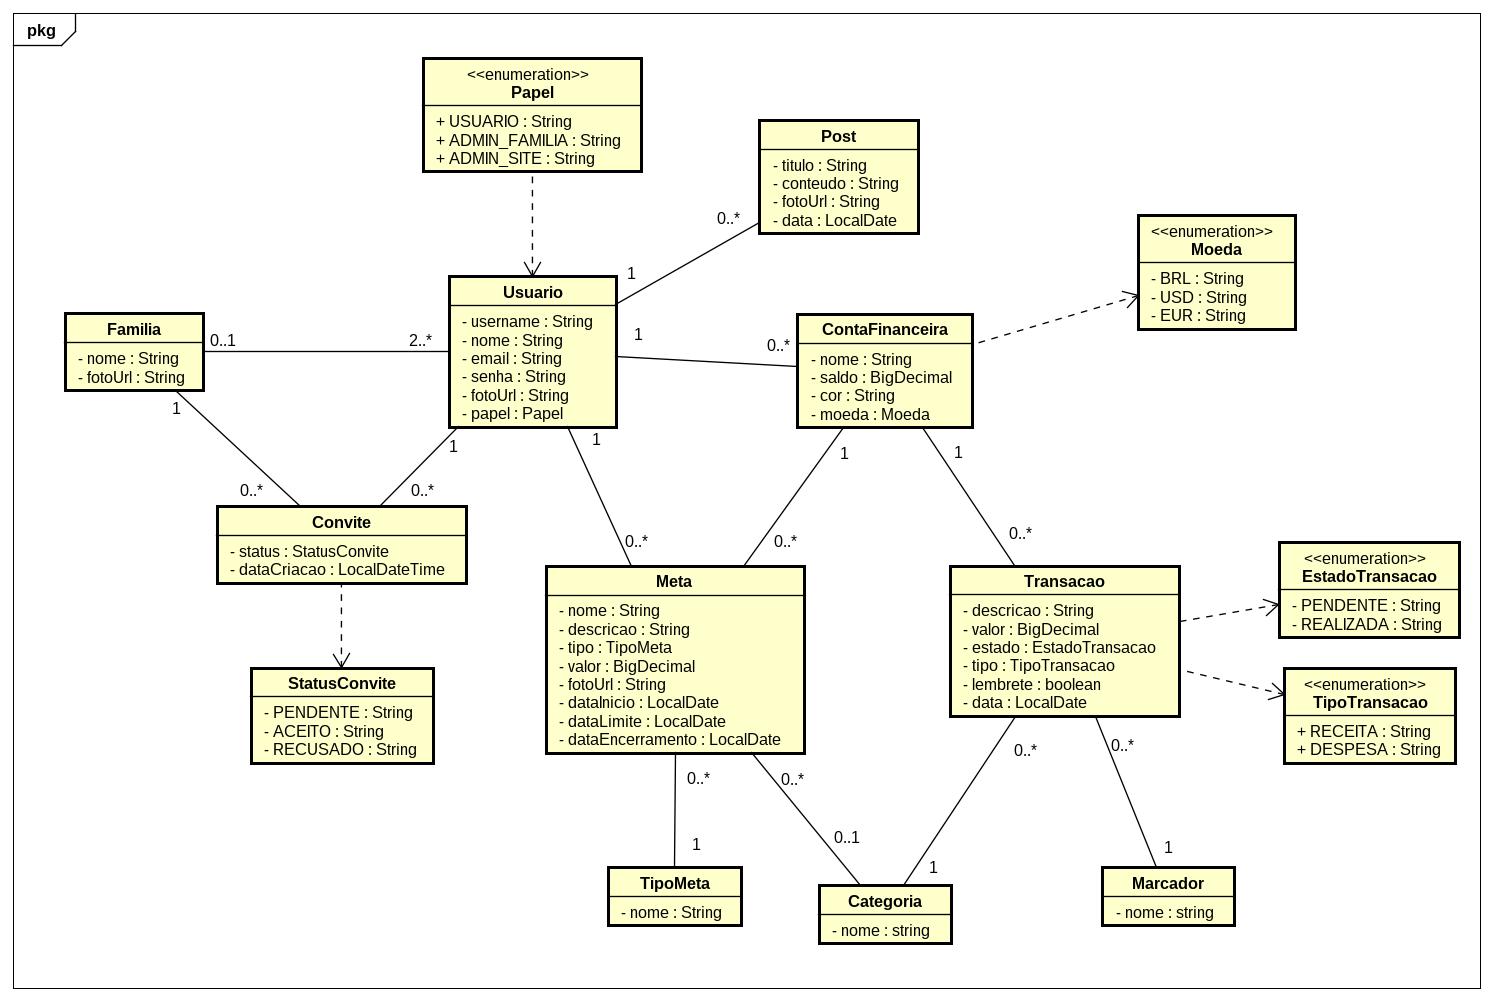
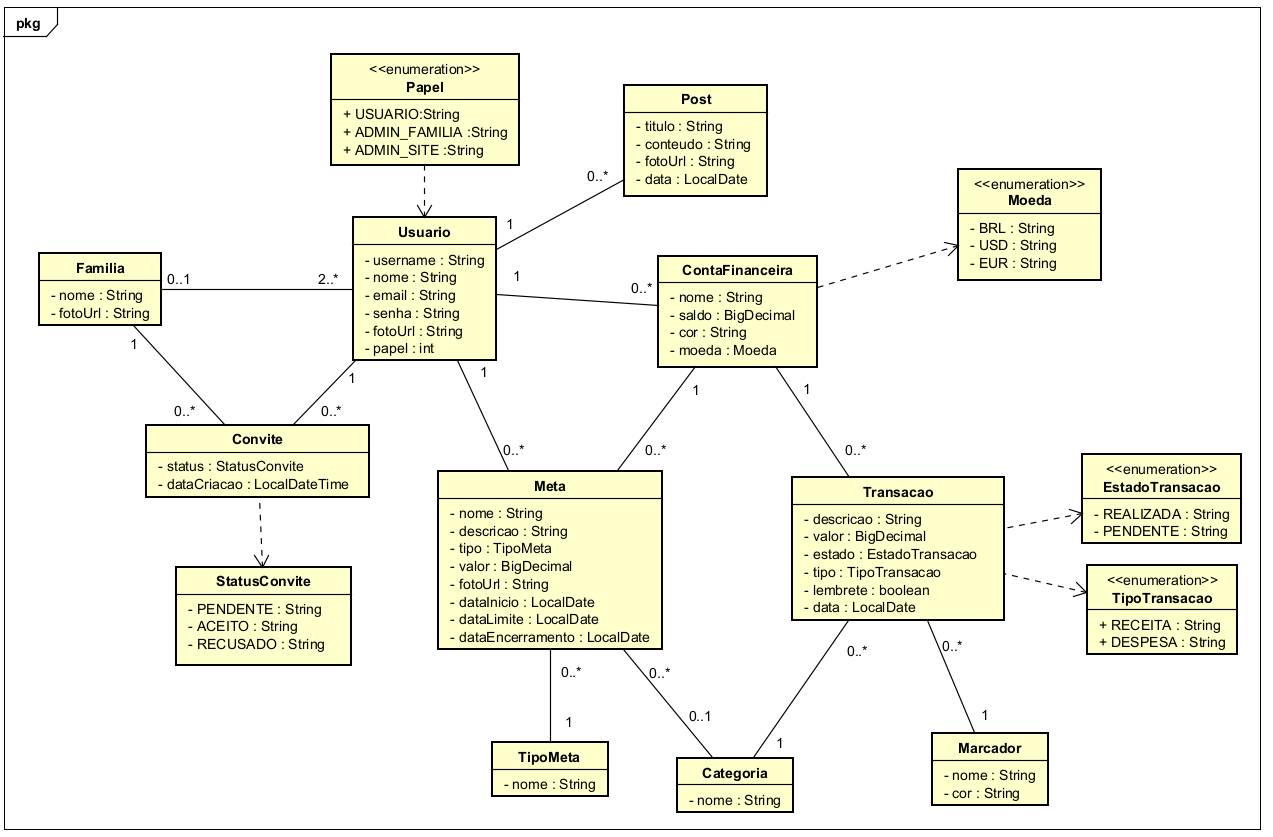
Docs: Atualizando diagrama de domínio

diff --git a/doc/projeto/diagrama_classes.md b/doc/projeto/diagrama_classes.md
@@ -88,6 +88,8 @@ classDiagram
     }
 
     class Marcador {
+        -String nome
+        -String cor
     }
 
     class Post {